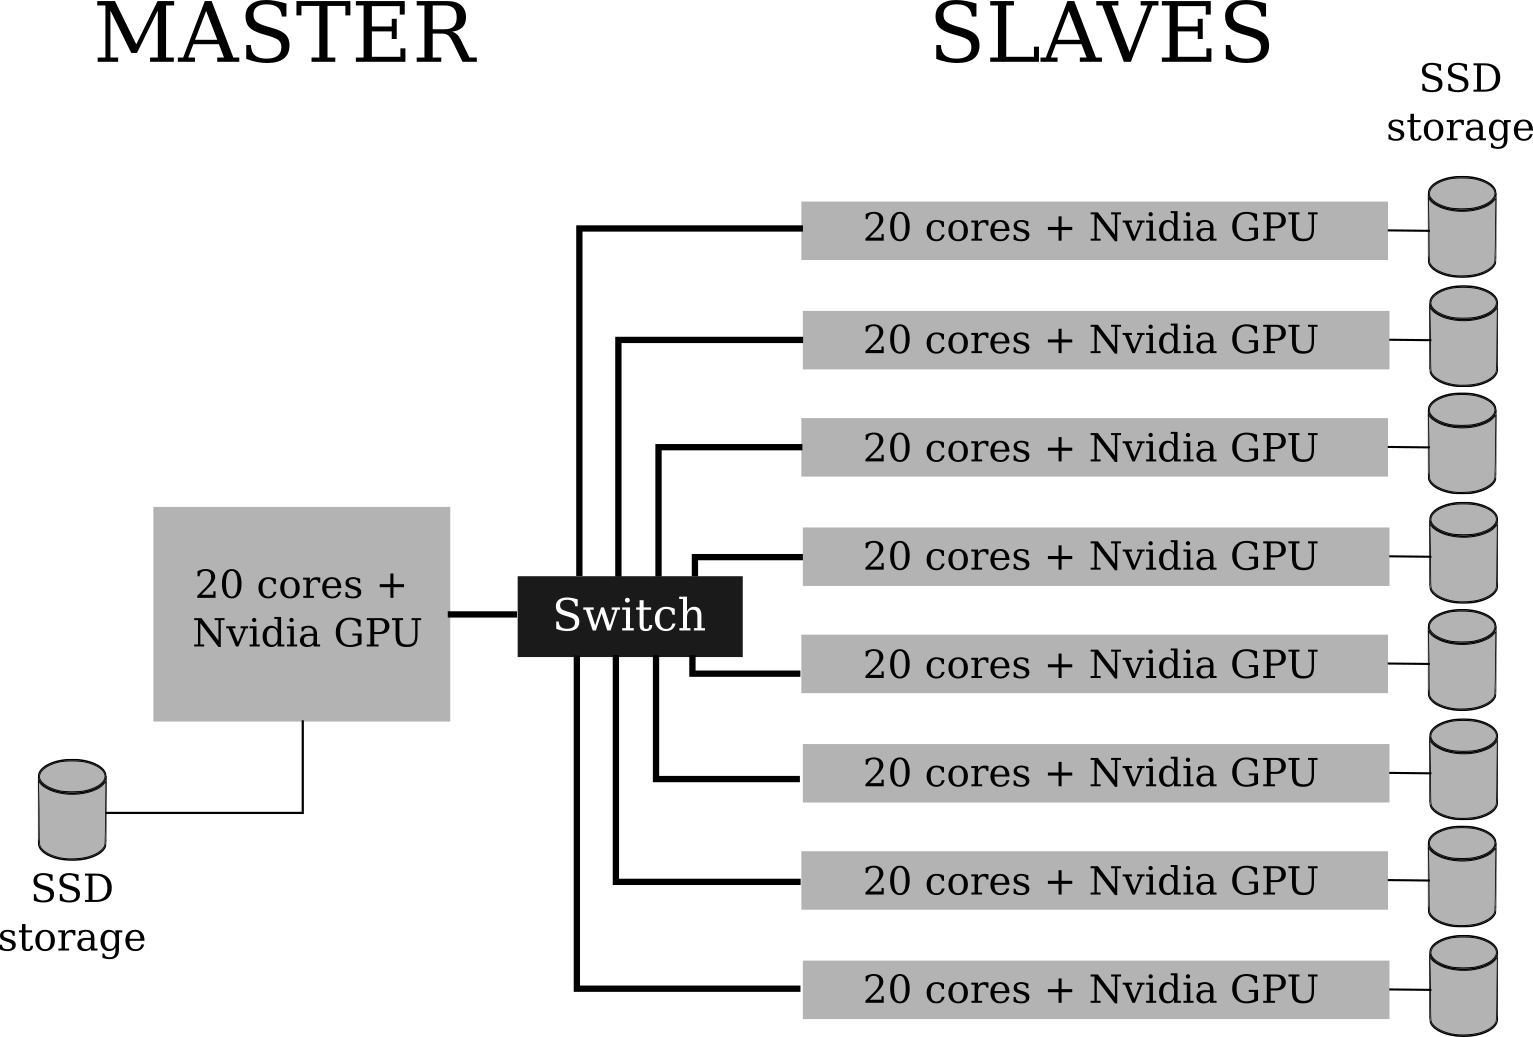
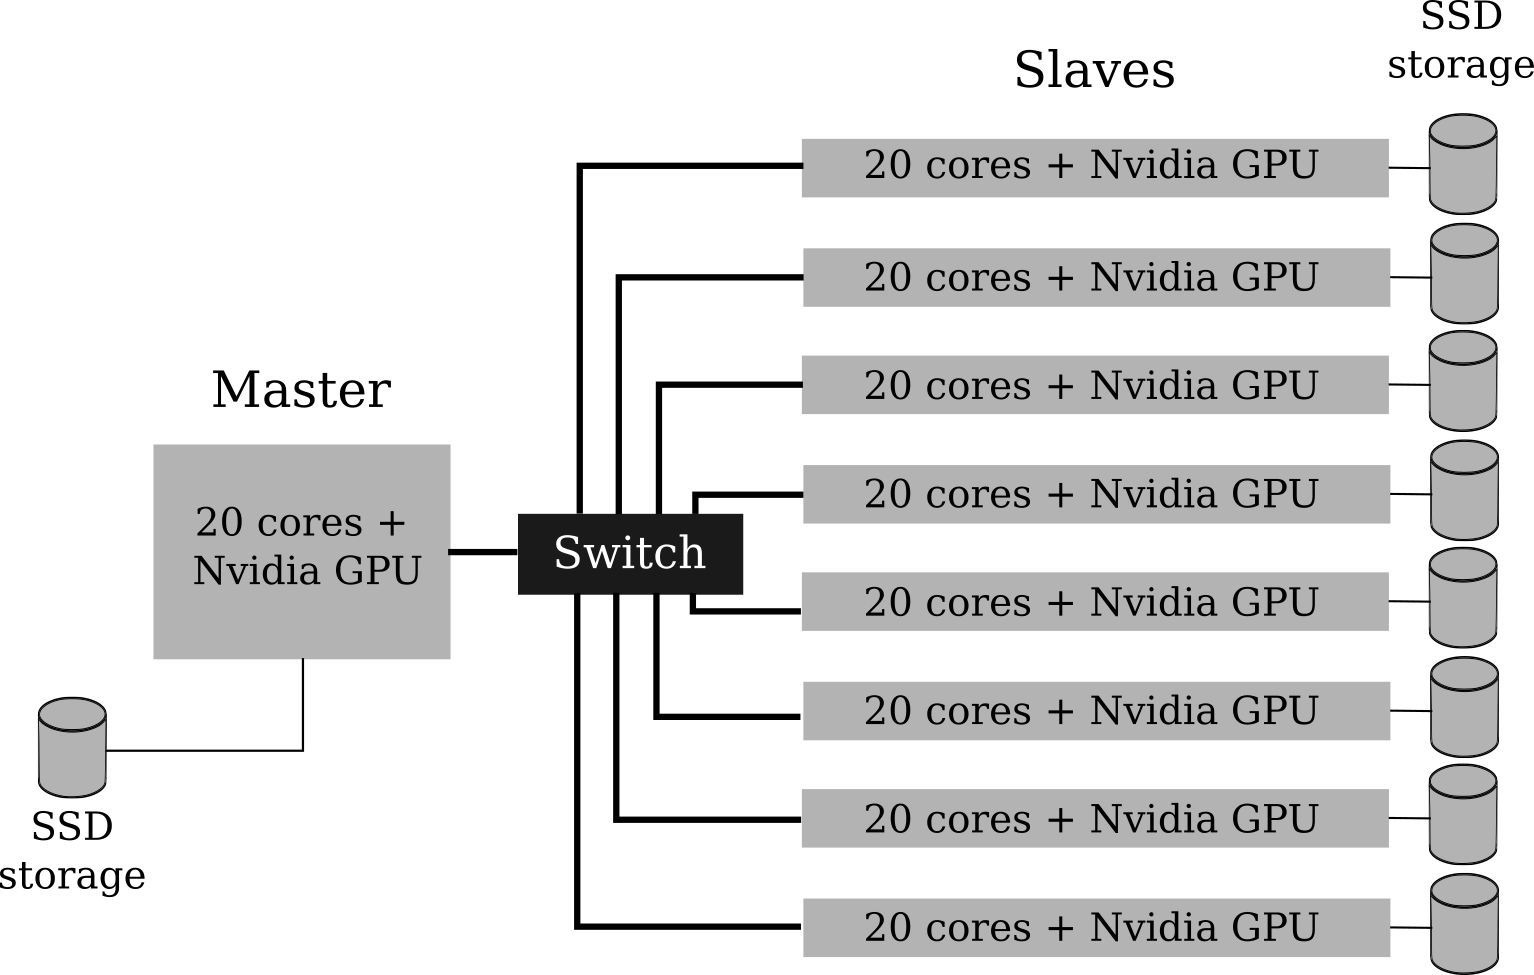
Mudança na figura (tamanhos do master e slave). Adicionado texto. Aspell não utilizado.

diff --git a/cluster.tex b/cluster.tex
@@ -129,35 +129,34 @@ context of a small research team.
 
 \subsection{Local Structure}
 
-In order to start the operation of cluster system, there are some considerations the must
+In order to start the operation of a cluster system, there are some considerations the must
 be taken in account. The physical location of the system is fundamental for safe, secure and
 reliable operation.
 
 From the security point of view, the cluster is located at a locked room with limited access to
 the personal related to manage and install the system. The building in which the cluster is located
-is part of the entire institute which is fenced and guarded by armed security personal.
+is part of the entire institute which is fenced and guarded by armed security personal, what makes
+unautorized access or intrusion a minor issue.
 
-The meaning of safety in this text is related to both personal safety and also system safety. Personal
-safety is not an issue since to special conditions are necessary to operated and use the cluster other
+The meaning of safety in this text is related to only to system safety. Personal
+safety is not an issue since no special conditions are necessary to operated and use the cluster other
 than use an ordinary desktop computer. The safety of the system consist in guarantee environmental conditions
-which are not harmful for the hardware. In order to guarantee a proper operational temperature, two dedicated
-air conditioning systems work in parallel. These equipments are dimensioned to be able to maintain alone
-the working temperature at the cluster room.
+which are not harmful to the hardware. In order to guarantee a proper operational temperature, two dedicated
+air conditioning devices work in parallel. These equipments are dimensioned to be able to maintain, each one alone,
+the working temperature at the cluster room considering the system at full operation, i.e. all nodes using all cores
+and GPU's.
 
-Related to reliability, the system is plugged to a remotely configurable no-break of 20KvA. This equipment
-can provide power for more than 10 minutes 
+Related to reliability, the system is plugged to a remotely configurable no-break of 40KvA. This equipment
+can provide power for the whole cluster for more than 10 minutes, time sufficent to be able to save the state of current jobs
+for all users. The implementation of shutdown scripts related to no-break signais is still to be defined.
 
-
-
-\subsection{Original Hardware and Software}
+\subsection{Hardware and Software}
 
 The so-called cluster system is formed by a set of identical high performance computers -
-total number of eight machines - with a master unit with slightly different configuration.
-Figure ~\ref{fig:cluster} presents a schematic representation of the system and
-its network topology.
+total number of eight machines - plus a master unit with slightly different configuration.
+Figure~\ref{fig:cluster} presents a schematic representation of the system.
 
 \begin{figure}[h] % t forces top and b forces bottom: can be added to h, ex. [ht]
-%  \centering\includegraphics[width=8.5cm,height=8.5cm]{images/esquema_cluster_edited_bw.png}
   \centering\includegraphics[scale=0.7]{images/cluster-topologico.png}
   \caption{Cluster hardware.}
   \label{fig:cluster}
@@ -179,6 +178,9 @@ differences rely on the graphics processor unit, equipped with another Nvidia{\t
 Quadro{\textregistered} M2000 with $4$Gb of memory. These video card is not aimed for calculations, but for
 visualization of data and graphics display. The other different is in the main RAM memory, having the \textit{master}
 $256$Gb of RAM. 
+
+A set of three hard-disks of $500$Gb was installed to the master node, making an extra $1.5$Tb to be used as part
+of the distributed file system.
 
 The original OS sold with the cluster is an OEM (Original Equipment Manufacturer) Windows 7{\textregistered} \cite{windows7}. This
 OS is not supported by the whole set of software expected to be used by the research group users. The chosen
@@ -353,6 +355,10 @@ Tables, like Table~\ref{table_1}, are numbered in Arabic numerals, with the capt
 
 (O que está bom, o que está ruim na atual instalação)
 (Trabalhos futuros: pra onde ir (operação), possíveis mudanças)
+
+There are many ongoing tasks and even more tasks still to be started. To mention a few, one
+interesting task related to the reliability and data management is the implementation of
+a automatic process of shutdown on loss of power supply.
 
 %Uma cita\c{c}\~{a}o \cite{Henderson17}.
 
